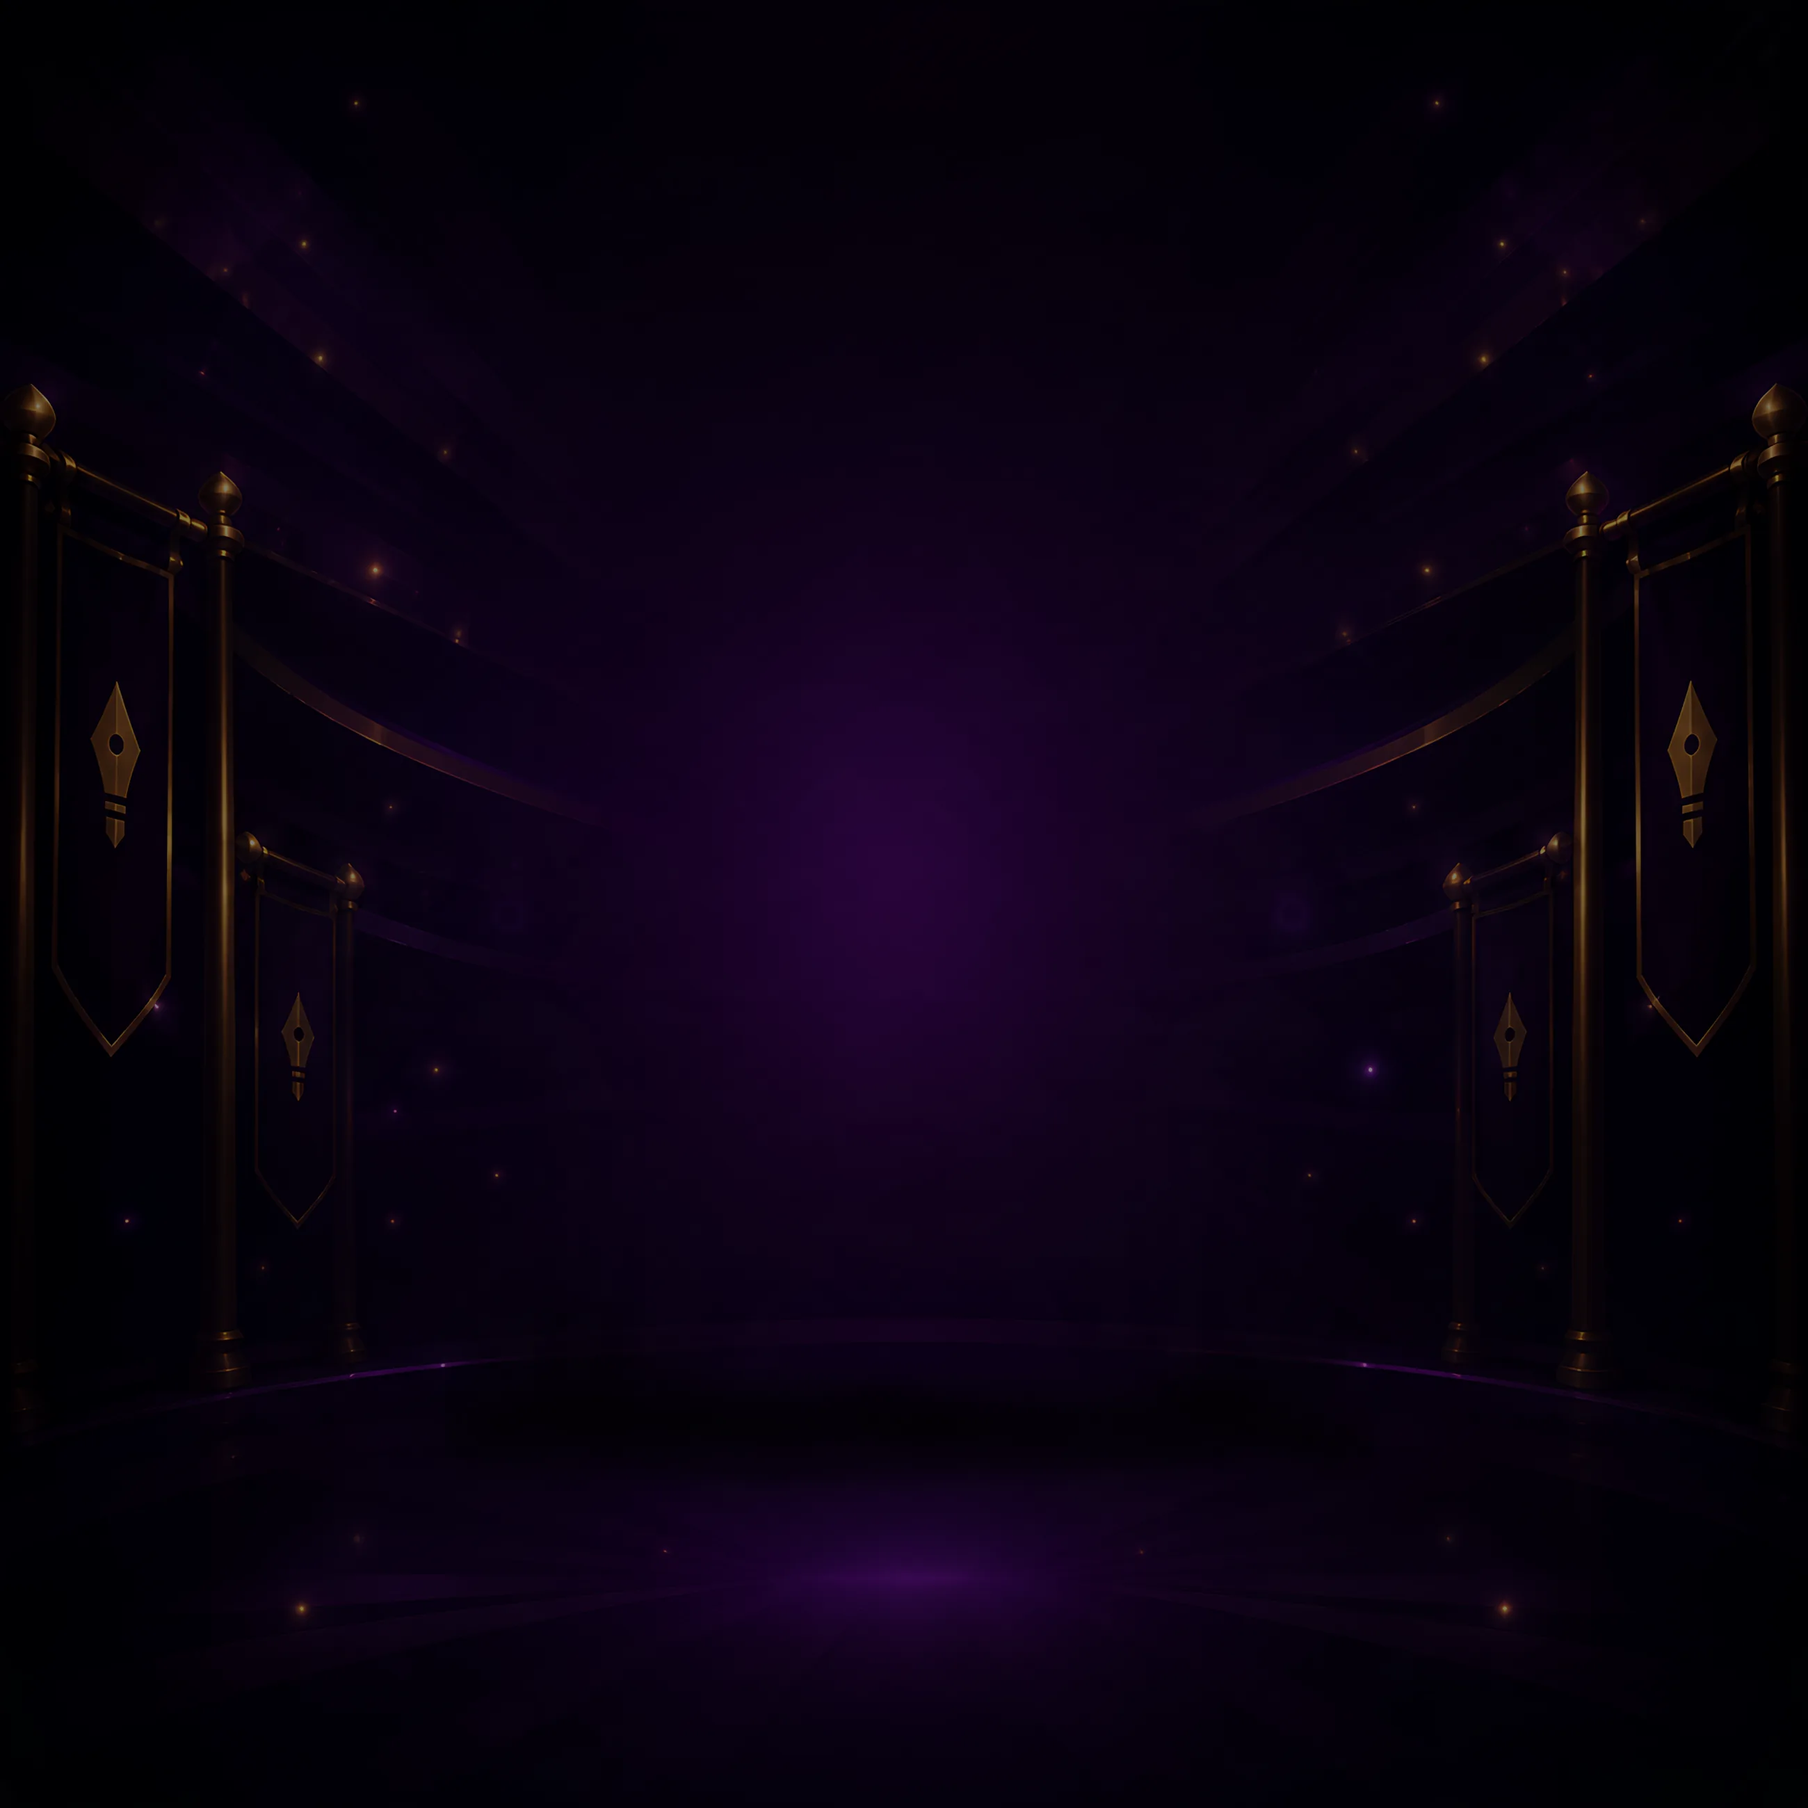
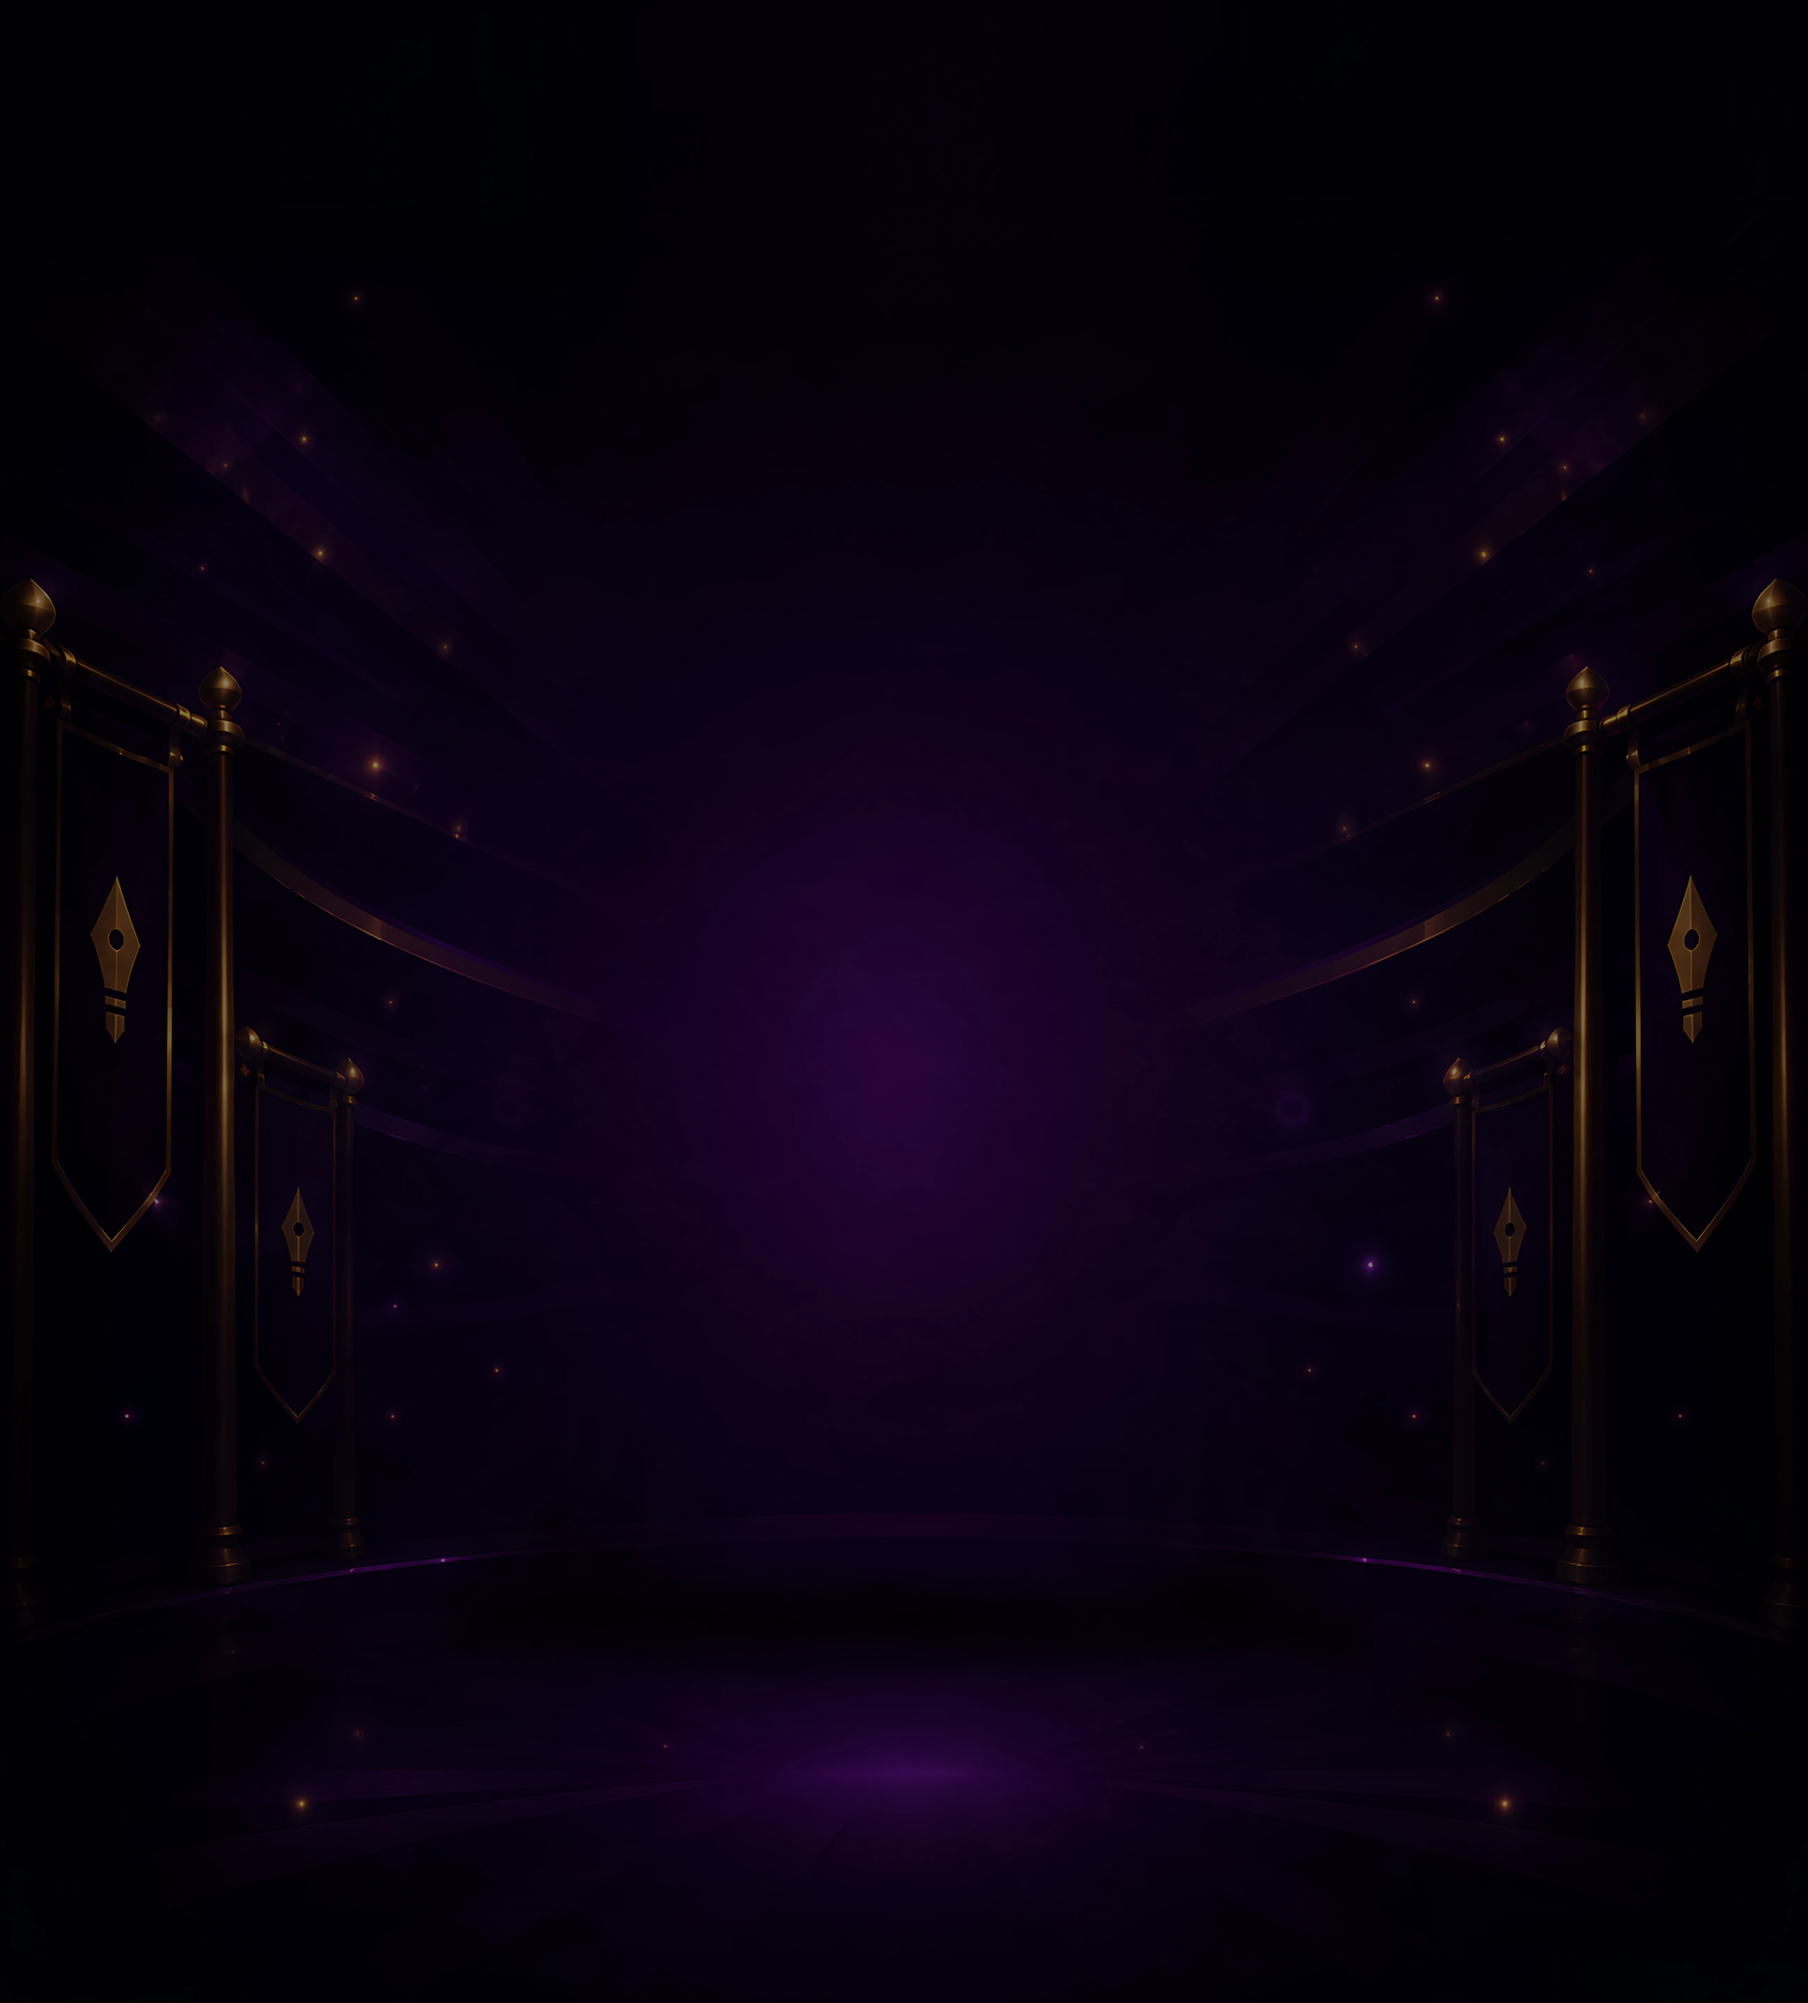
v2.99.1: de zaal vult het scherm zonder dat er iets verschuift
DE DONKERE BOVENKANT was geen fout in de foto maar een gat in de plaatsing. Een
vierkante plaat op 195,8% van de schermbreedte is 769 punten hoog op een scherm
van 852, en die 83 punten stonden als vlakke achtergrondkleur bovenaan. Dat leest
als een achtergrond die te snel dooft.

Eerst geprobeerd de plaat naar boven te schuiven zodat het gat onderin viel. Dat
was fout: de ladder hangt aan de zaal, dus die sprong 83 punten omhoog en stond
bovenop de gouden sectie. Gemeten: paneel tot 458, ladder vanaf 389.

Nu zit het gat in de PLAAT: 442 rijen doorgetrokken plafond bovenop de tekening,
dus het bestand is 4096 bij 4538 en vult het scherm helemaal. Geen vulkleur en
geen rek: rekken haalt de vloerboog uit het lood, en doortrekken kan hier omdat
de bovenste rijen (2, 0, 7) zijn met een spreiding van 2. Er valt niets te zien
wat kan verspringen.

Omdat de lucht BOVENOP zit staat alles eronder nog precies waar het stond.
Nagemeten: scorebord 129-224, paneel 224-458, ladder 472-694, knop 704-738. Geen
enkele overlap.

En de zaal komt uit de PSD en niet uit de png, want die png is van 23:35 en mist
het schaduwvlak; nagemeten verschillen ze alleen op y 2982-3366, x 1004-3090,
precies dat vlak. Wat wel scheelde was mijn webp-instelling: op q82 piekte de
fout op 125 niveaus rond de felle lichtjes, op q92 nog 36. Nu q92, 104 kB.

diff --git a/frontend/src/index.css b/frontend/src/index.css
@@ -1335,9 +1335,17 @@ html.klassiek body.lijst::after {
    kader in de mockup is 0,51 breed-op-hoog en een telefoon 0,46, dus cover
    snijdt er meer af dan de tekenaar bedoelde.
 
-   Op 195,8% van de breedte is de plaat 769 punten hoog op een scherm van 852, en
-   die 83 punten bovenaan vult de achtergrondKLEUR. Dat mag hier, want de
-   bovenste rijen van de art zijn zelf (1, 0, 5): zwart op zwart, geen naad.
+   Op 195,8% van de breedte is een vierkante plaat 769 punten hoog op een scherm
+   van 852. Die 83 punten zijn opgelost in de PLAAT en niet in de css: er zitten
+   442 rijen doorgetrokken plafond bovenop, dus het bestand is 4096 bij 4538 en
+   vult het scherm helemaal.
+
+   Dat is met opzet geen vulkleur en geen rek. Een vlakke kleur bovenaan leest
+   als een achtergrond die te snel dooft, en rekken haalt de vloerboog uit het
+   lood. Doortrekken kan hier omdat de bovenste rijen van de art (2, 0, 7) zijn
+   met een spreiding van 2: er valt niets te zien wat kan verspringen.
+
+   En omdat de lucht BOVENOP zit staat alles eronder nog precies waar het stond.
 
    EN VERDER NIETS. Geen ruislaag, geen sluier, geen verloop eronder: de zaal
    zoals hij getekend is, en anders niks. De andere hallen in dit bestand hebben
@@ -1354,14 +1362,14 @@ body.rekenspel::after {
   height: calc(100lvh + 240px);
   z-index: -1;
   pointer-events: none;
-  background-color: #010005;
+  background-color: #03000A;
   background-repeat: no-repeat;
-  background-position: bottom center;
+  background-position: top center;
   background-size: 195.8% auto;
 }
 body.rekenzaal::after {
   background-image: url("/ui/reken/bg-lobby.webp?v=2");
 }
 body.rekenspel::after {
-  background-image: url("/ui/reken/bg-spel.webp?v=2");
+  background-image: url("/ui/reken/bg-spel.webp?v=3");
 }

diff --git a/frontend/src/screens/_PreviewRekenladder.tsx b/frontend/src/screens/_PreviewRekenladder.tsx
@@ -207,14 +207,13 @@ const LADDER_H = 733;
 // telefoonkader uit de mockup, 2092 van 4096 breed). Eén zaalpixel is dus
 // schermbreedte/2092, en daarmee is alles in vw uit te drukken:
 //   breedte = 1776,2 / 2092 = 84,90% van de schermbreedte
-// De bovenkant hangt aan de ONDERkant van de zaal, want die is onderaan
-// verankerd: de plaat is 195,8% van de breedte hoog, dus zijn bovenrand ligt op
-// 100lvh - 195,8vw, en het puntje zit 2070,6/2092 = 98,98vw daaronder.
-//   top = 100lvh - 195,79vw + 98,98vw = 100lvh - 96,81vw
+// De zaal is bovenaan verankerd en heeft 442 rijen doorgetrokken plafond boven
+// de tekening, dus het puntje zit (442 + 2070,6)/2092 = 120,11vw onder de
+// schermrand.
 const LADDER_BREED = 84.90;      // vw
-const LADDER_TOP = "calc(100lvh - 96.81vw)";
-// De onderkant volgt eruit: 96,81 - 84,90 * 733/1100 = 40,23.
-const LADDER_ONDER = "calc(100lvh - 40.23vw)";
+const LADDER_TOP = "120.11vw";
+// De onderkant volgt eruit: 120,11 + 84,90 * 733/1100 = 176,69.
+const LADDER_ONDER = "176.69vw";
 // De puntjes zelf zijn gereedschap en geen decor; die zijn uit de zaal gepoetst.
 
 /** Per trede: waar de strook zit in de ladder, en waar het VLAK van de plaat

diff --git a/frontend/src/version.ts b/frontend/src/version.ts
@@ -1,2 +1,2 @@
 // Bump per user-facing release. Shown in Settings > About.
-export const APP_VERSION = "2.99.0";
+export const APP_VERSION = "2.99.1";
